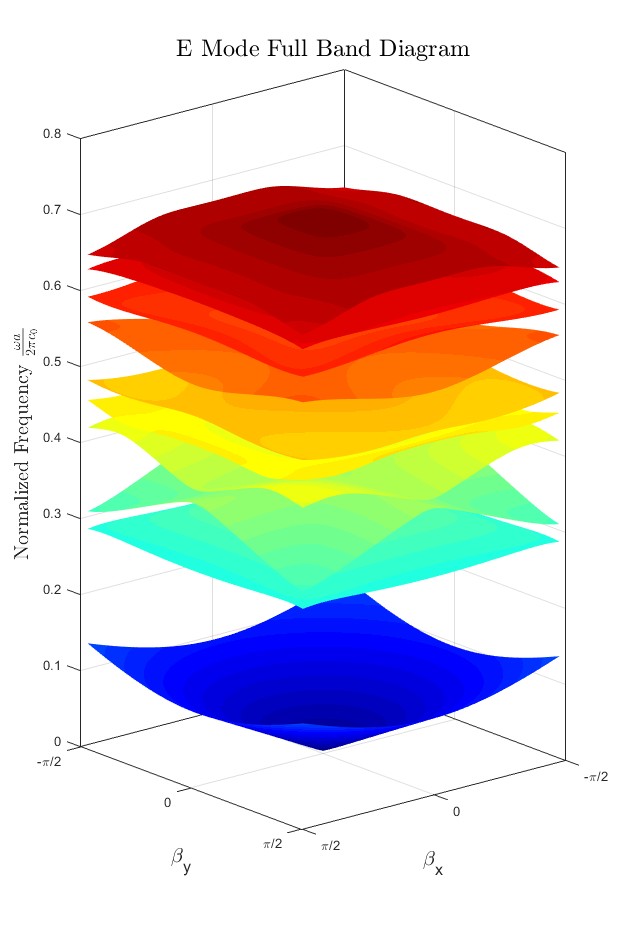
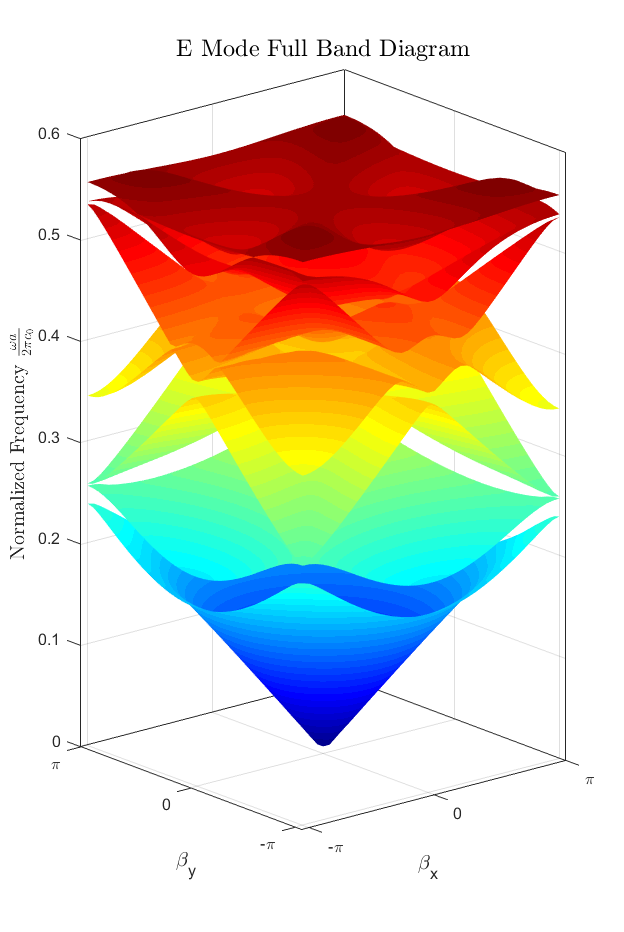
Major changes to simulation code

diff --git a/BandDiagrams.m b/BandDiagrams.m
@@ -155,18 +155,18 @@ if (MODE.BC == 1)
     ylim([0 0.6]);
     xlim([1 length(bx)]);
     h2 = get(h(1),'Parent');
-    set(h2,'FontSize',12,'LineWidth',1.5);
+    set(h2,'FontSize',13,'LineWidth',1.5);
     title([MODE.EM '$\textrm{ Mode}$'],'FontSize',16,'Interpreter','LaTex')
     
     % Format x-Axis
     XT = [1 NP1 2*NP1 3*NP1 4*NP1 5*NP1 6*NP1];
     XL = {'\Delta','X','Z','M','\Sigma','\Gamma','\Delta'};
     set(h2,'XTick',XT,'XTickLabel',XL);
-    xlabel('Bloch Wave Vector ($\beta$)','Interpreter','LaTex','FontSize',13);
+    xlabel('Bloch Wave Vector ($\beta$)','Interpreter','LaTex','FontSize',14);
     
     % Format y-Axis
     ylabel('Normalized Frequency $\frac{\omega a}{2\pi c_0}$','Interpreter',...
-        'LaTex','FontSize',13,'Rotation',90);
+        'LaTex','FontSize',14,'Rotation',90);
     
 %     % Add Vertical Lines
     for n = 2 : length(XT)-1
@@ -182,12 +182,19 @@ if (MODE.BC == 1)
     vy  = [SQy(1) SQy(3) SQy(3) SQy(1) SQy(1)];
     fill(vx,vy,[198/255 226/255 255/255],'EdgeColor',...
         [198/255 226/255 255/255]);
-    text(vx(1)+0.5,vy(1),'$\Delta$','Interpreter','LaTex',...
+    text(SQx(2)-0.5,SQy(2),'$\Delta$','Interpreter','LaTex',...
         'HorizontalAlignment','Right');
-    text(vx(2)+0.5,vy(2),'M','Interpreter','LaTex',...
+    text(SQx(2)-0.5,SQy(3)+0.005,'X','Interpreter','LaTex',...
+        'HorizontalAlignment','Right');
+    text(vx(3)+0.5,vy(3),'Z','Interpreter','LaTex',...
         'HorizontalAlignment','Left');
-    text(vx(3)+0.5,vy(3),'X','Interpreter','LaTex',...
+    text(SQx(3)+0.5,SQy(2),'M','Interpreter','LaTex',...
         'HorizontalAlignment','Left');
+    text(SQx(3)+0.5,SQy(1),'$\Sigma$','Interpreter','LaTex',...
+        'HorizontalAlignment','Left');
+    text(SQx(2)-0.5,SQy(1)+0.005,'$\Gamma$','Interpreter','LaTex',...
+        'HorizontalAlignment','Right');
+
     for x = 1 : length(SQx)
         for y = 1 : length(SQy)
             plot(SQx(x),SQy(y),'ok','MarkerSize',3,'MarkerFaceColor','k');
@@ -203,15 +210,18 @@ if (MODE.BC == 1)
     set(a,'LineWidth',1,'Color','k');
     hold off;
 elseif (MODE.BC == 2)
+    figure('Color','w');
     % PLOT FULL BAND DIAGRAM
     for b = 1 : 7               % Just plot some bands
-        surf(reshape(WN(b,:),SYM.NP,SYM.NP));
+        a = surf(reshape(WN(b,:),SYM.NP,SYM.NP));
         shading interp;
         hold on;
         drawnow;
         view([-40,10]);
     end
     hold off;
+    a = get(a,'Parent');
+    set(a,'FontSize',12);
     title([MODE.EM '$\textrm{ Mode Full Band Diagram}$'],...
         'Interpreter','LaTex','FontSize',18);
     xlabel('\beta_x','FontSize',15);
@@ -220,17 +230,40 @@ elseif (MODE.BC == 2)
         'Interpreter','LaTex','FontSize',15);
     box on;
     colormap(jet);
-    T = [0 20 40];
-    L = {'\pi/2','0','-\pi/2'};
+    T = [1 20 40];
+    L = {'-\pi','0','\pi'};
     set(gca,'XTick',T,'XTickLabel',L,'YTick',T,'YTickLabel',L);
     
     % ISOFREQUENCY CONTOURS
     figure('Color','w');
     [C,H] = contour(reshape(WN(1,:),SYM.NP,SYM.NP),8,'LineWidth',1.5);
+    set(gca,'FontSize',13);
     title([MODE.EM '$\textrm{ Mode 1st Band Isofrequency Contour}$'],...
         'FontSize',15,'Interpreter','LaTex');
     xlabel('\beta_x','FontSize',12);
     ylabel('\beta_y','FontSize',12);
+    clabel(C,H,'FontSize',10);
+    colormap(jet);
+    T = [1 20 40];
+    L = {'-\pi','0','\pi'};
+    set(gca,'XTick',T,'XTickLabel',L,'YTick',T,'YTickLabel',L);
+    colorbar;
+    axis equal tight;
+    
+    figure('Color','w');
+    [C,H] = contour(reshape(WN(2,:),SYM.NP,SYM.NP),8,'LineWidth',1.5);
+    set(gca,'FontSize',13);
+    title([MODE.EM '$\textrm{ Mode 2nd Band Isofrequency Contour}$'],...
+        'FontSize',15,'Interpreter','LaTex');
+    xlabel('\beta_x','FontSize',12);
+    ylabel('\beta_y','FontSize',12);
+    clabel(C,H,'FontSize',10);
+    colormap(jet);
+    T = [1 20 40];
+    L = {'-\pi','0','\pi'};
+    set(gca,'XTick',T,'XTickLabel',L,'YTick',T,'YTickLabel',L);
+    colorbar;
+    axis equal tight;
     
 end
     
